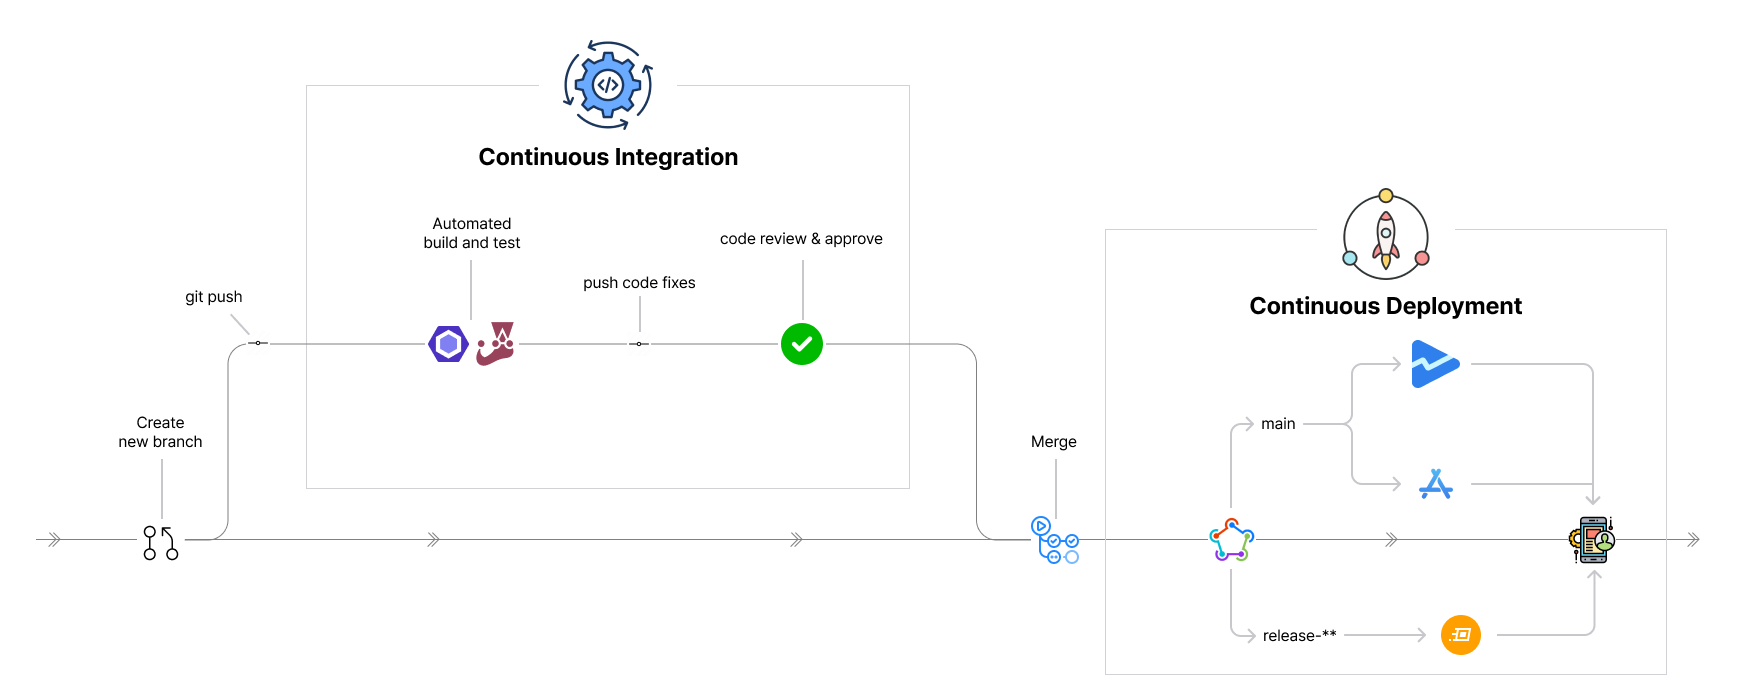
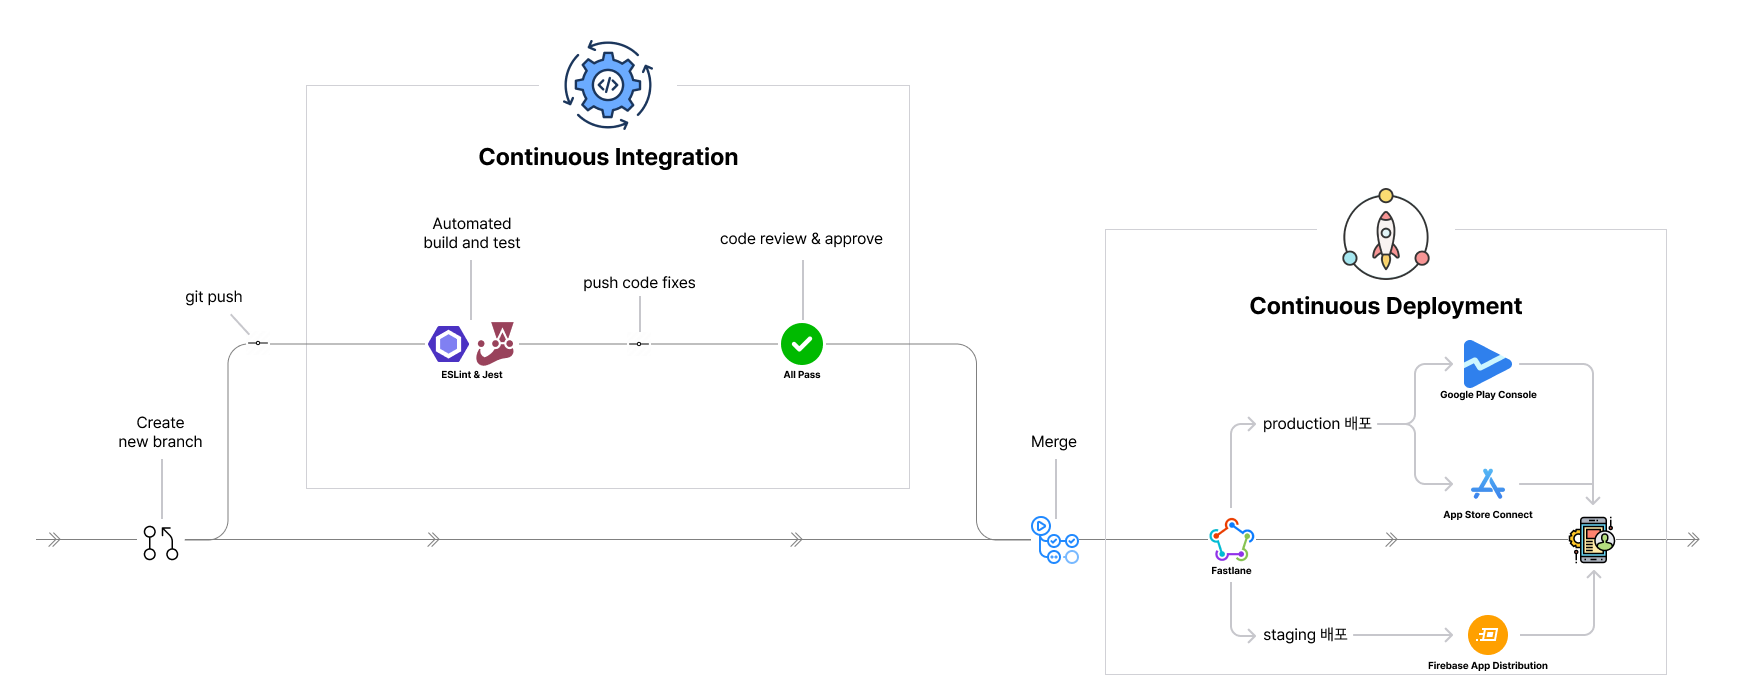
앱 내용 수정

diff --git a/constants/app.ts b/constants/app.ts
@@ -6,22 +6,23 @@ const appDetail = [
       { src: '/app/token-refresh-after.png', caption: '[After 토큰 재발급 흐름]' },
     ],
     problem:
-      '토큰 만료 시, 요청 중인 여러 API 요청이 동시에 실패(401)하면서 로그아웃 문제가 발생함',
-    cause:
-      '각 요청이 개별적으로 Refresh Token을 사용해 재발급을 시도하고, 첫 번째 재발급 요청만 성공하며 나머지 요청은 RTK 만료로 인해 로그아웃 처리됨',
+      'ATK(Access Token) 만료 후 여러 API 요청이 동시에 401 오류를 받으며 로그아웃 문제가 발생함',
+    cause: [
+      '오류를 받은 요청들이 동시에 RTK(Refresh Token)으로 토큰 재발급을 시도하지만, 시스템은 RTR(Rotate Refresh Token) 기법을 적용하고 있어 토큰 재발급 시 RTK도 함께 갱신되며 이전 RTK는 즉시 만료됨',
+      '따라서 첫 번째 요청만 재발급에 성공하고, 이후 요청들은 만료된 RTK를 사용해 로그아웃 처리로 이어짐',
+    ],
     alternatives: [
-      { text: 'Queue 기반의 요청 재처리 로직 도입', selected: true },
-      { text: 'Access Token(ATK) 유효 시간 연장', selected: false },
+      { text: '재발급 중복 방지 + 요청 대기 큐 도입', selected: true },
+      { text: 'ATK 유효 시간 연장', selected: false },
       { text: 'ATK 만료 직전에 사전 재발급 시도', selected: false },
-      { text: '백그라운드 만료 감지 후 갱신', selected: false },
+      { text: '백그라운드에서 토큰 만료 감지 및 자동 갱신 처리', selected: false },
     ],
     solution: [
-      '다수의 요청이 동시에 401 오류를 받을 수 있는 환경에서 isRefreshing 플래그와 requestQueue를 이용한 구조를 도입하여, 토큰 재발급 중인 상태에서는 추가적인 재발급 요청을 차단하고 그 시점 이후 발생한 요청은 모두 큐에 저장한다. 재발급이 성공하면 큐에 저장된 요청을 다시 실행시켜 중복 요청을 방지하고, 사용자에게는 실패 없이 매끄러운 경험을 제공',
+      '동시에 401 오류가 발생할 수 있는 상황에 대비해, 토큰 재발급 중에는 이후 요청을 대기열에 저장하고, 재발급이 완료된 후 새 토큰으로 인증 정보를 갱신해 순차적으로 요청을 처리하는 방식으로 문제를 해결하였다.',
     ],
     insights: [
-      '큐 기반 처리로 불필요한 서버 부하를 줄이고, 안정적인 사용자 경험을 제공할 수 있었다.',
-      '하지만 첫 번째 재발급 요청이 완료되기까지 대기 중인 요청은 초기 응답 지연이 발생할 수 있는데, 특히 네트워크가 불안정한 상황에서는 재발급 지연이 더 심해져 응답 지연이 가시화될 수 있다.',
-      '향후에는 백그라운드에서 토큰 만료를 감지해 갱신하는 전략을 병행하는 것이 효과적일 것같다.',
+      '요청 대기 큐를 통해 안정적인 사용자 경험을 제공할 수 있었고, 불필요한 서버 부하를 줄일 수 있었다.',
+      '다만, 재발급이 완료되기 전까지 요청이 대기하게 되므로 초기 응답 지연이 발생할 수 있고, 특히 네트워크가 불안정한 환경에서는 이 지연이 체감될 수 있다. 이 점을 보완하기 위해, 백그라운드에서 토큰 만료를 감지하고, 자동으로 갱신하는 전략을 병행한다면 사용자 경험을 더욱 매끄럽게 만들 수 있을 것으로 예상된다.',
     ],
     references: [],
   },
@@ -37,24 +38,27 @@ const appDetail = [
         caption: '[After 스플래시 화면 흐름]',
       },
     ],
-    problem: '스플래시 화면에서 인증 오류 발생 시 사용자가 자동으로 로그아웃되는 현상이 발생함',
-    cause:
-      '클라이언트의 네트워크 장애나 서버 오류 상황에 대한 정교한 에러 핸들링이 부족하여, 일시적인 문제에도 토큰이 제거되어 로그아웃 처리됨',
+    problem:
+      '앱 실행 후 스플래시 화면에서 인증 관련 API 호출 중 네트워크 에러가 발생하면, 실제 인증 실패가 아님에도 불구하고 사용자가 자동 로그아웃되는 현상이 발생함',
+    cause: [
+      '클라이언트에서 인증 오류(예: 401, 403)와 일시적인 네트워크 에러(예: 500, 타임아웃 등)에 대한 에러 핸들링이 명확히 구분되지 않아, 모든 오류 상황에서 토큰을 제거하고 로그인 페이지로 이동시키는 로직이 실행됨',
+    ],
     alternatives: [
       { text: '점진적 Retry → 이후 네트워크 상태 재확인 흐름 적용', selected: true },
       { text: 'API 요청 전 네트워크 상태 사전 확인', selected: false },
       { text: 'Queue를 활용한 요청 재시도(Retry) 구조 도입', selected: false },
     ],
     solution: [
-      '네트워크 장애나 서버 오류로 인한 실패에 대해서는 인증 토큰을 제거하지 않도록 에러 핸들링 로직을 개선',
-      '네트워크 불안정이 감지된 경우에는 재시도 없이 즉시 네트워크 장애 안내 페이지로 전환하여 불필요한 요청 감소',
-      '일시적인 서버 오류(예: 블루/그린 배포 중 발생하는 5xx 오류)를 고려해, Exponential Backoff Retry 전략(1초 → 2초 → 4초, 최대 3회) 을 적용하여 사용자 요청의 안정성을 확보함',
+      '네트워크 장애나 서버 오류(5xx) 발생 시, 인증 토큰을 제거하지 않도록 에러 핸들링 로직 개선',
+      '네트워크 연결이 불안정한 경우, 재시도 없이 즉시 네트워크 장애 안내 페이지로 전환하여 인증 정보 유지 및 불필요한 요청 감소',
+      '일시적인 서버 오류(예: 블루/그린 배포 중 발생하는 5xx 오류)를 고려해, Exponential Backoff Retry 전략(1초 → 2초 → 4초, 최대 3회)을 적용하여 사용자 요청의 안정성을 확보함',
     ],
     insights: [
       '프로세스 개선 및 정교한 에러 핸들링을 통해 불필요한 로그아웃 문제를 방지하고, 사용자 세션 유지의 안정성을 높일 수 있었다.',
       '모바일 환경처럼 네트워크가 불안정한 상황에서 앱이 사용자를 강제로 로그아웃시키는 경험은 신뢰도에 큰 영향을 줄 수 있기 때문에, 토큰 제거 조건을 정교하게 설계한 점이 주요한 개선 포인트였다.',
-      '또한 Exponential Backoff Retry 적용으로 서버 오류에 대해 과도한 요청을 방지하면서도 회복 가능성을 고려한 요청 흐름을 설계할 수 있었으며, 이는 서버 부하 감소에도 기여했다.',
-      '마지막으로 RTK 만료로 로그아웃된 사용자에게는 이전 로그인 수단을 안내하는 UI를 추가하여, 재로그인 과정을 빠르게 유도하고, 이탈을 줄이고자하였다.',
+      'Exponential Backoff Retry 전략을 도입함으로써, 회복 가능성을 고려한 요청 흐름을 구성하고 불필요한 반복 요청을 줄여 서버 부하 감소에도 기여했다.',
+      'RTK 만료로 로그아웃된 사용자에게는 이전 로그인 수단을 바로 안내하는 UI를 추가하여 재로그인 과정의 이탈률도 줄임',
+      'Jest + React Native Testing Library를 활용해 API 요청, 네트워크 예외 상황 등을 모킹하여 다양한 시나리오에 대해 의도한 대로 동작하는지 검증하였지만, MSW(Mock Service Worker) 등 더 실제에 가까운 HTTP 모킹 도구를 사용했다면 정교한 통합 테스트 환경 구축도 가능했을 것이다.',
     ],
     references: [
       {
@@ -79,20 +83,21 @@ const appDetail = [
         caption: '[딥링크 클릭 시 로그인되지 않은 사용자의 화면 이동]',
       },
     ],
-    problem: '딥링크 클릭 시 로그인 상태에 따라 올바른 화면으로 이동하지 못하는 문제가 발생함',
-    cause:
+    problem: '딥링크 클릭 시 로그인 상태에 따라 목적지로 이동하지 못하는 문제가 발생함',
+    cause: [
       '로그인 여부를 고려한 분기 로직 없이 딥링크를 처리해, 로그인 전 상태에서는 의도한 목적지로의 이동이 보장되지 않았음',
+    ],
     alternatives: [
       { text: 'Context를 활용한 딥링크 상태 보존', selected: true },
       { text: '로그인 여부를 검증하지 않고 목적지로 리디렉션', selected: false },
     ],
     solution: [
-      '로그인을 필수로 요구하는 서비스 특성상, 비로그인 상태에서 딥링크로 접근 시 목적지로 바로 이동할 수 없는 문제가 존재하여, 딥링크로 들어온 경로를 전역 상태(Context)에 저장하고 로그인 완료 후 해당 경로로 리디렉션하는 방식을 도입함',
+      '로그인을 필수로 요구하는 서비스 특성상, 비로그인 상태에서 딥링크로 접근 시 목적지로 바로 이동할 수 없는 문제가 존재하여, 딥링크로 접속 시 경로를 전역 상태(Context)에 저장하고 로그인 완료 후 해당 경로로 리디렉션하는 방식을 도입함',
     ],
     insights: [
       '전역 상태를 활용한 경로 저장 및 리디렉션 방식은 로그인 후에도 사용자가 딥링크 목적지로 자연스럽게 이동할 수 있어 진입 흐름의 일관성이 확보되었다.',
-      '마케팅 링크, 공유 링크 등 다양한 유입 경로에서도 사용자의 기대와 실제 앱 동작 간의 간극을 줄이는 데 기여하여, 서비스 접근성과 UX 측면에서 긍정적인 효과를 얻을 수 있었다.',
-      '다만, 로그인하지 않은 사용자는 딥링크 내용을 즉시 확인하기 어려운 한계가 있으며, 이를 보완하기 위해 딥링크 클릭 시 웹 링크로 유도하여 로그인 절차 없이 내용을 확인할 수 있도록 하는 방식을 향후 적용하는 것이 효과적일 것이다.',
+      '마케팅 링크, 공유 링크 등 다양한 외부 유입 경로에서 사용자의 기대와 실제 앱 동작 간의 간극을 줄이는 데 기여했으며, 결과적으로 서비스 접근성과 UX 향상에 긍정적인 영향을 주었다.',
+      '다만, 로그인하지 않은 사용자는 딥링크 내용을 즉시 확인하기 어려운 한계가 있으며, 이를 보완하기 위해 딥링크 클릭 시 앱이 설치되어 있지 않다면 웹 링크로 유도하여 내용을 즉시 확인할 수 있도록 하는 방식을 적용하는 것이 효과적일 것이다.',
     ],
     references: [],
   },
@@ -104,10 +109,12 @@ const appDetail = [
         caption: '[인앱 업데이트 프로세스]',
       },
     ],
-    problem:
+    problem: [
       '앱 스토어 심사로 인해 배포 시점이 최대 1~2일 지연되어, 긴급 수정이 즉시 이루어지지 않음',
-    cause:
-      '업데이트를 앱 심사 및 배포 완료 이후에만 적용할 수 있는 구조로 운영되어, 유연한 대응이 불가능했음',
+    ],
+    cause: [
+      '업데이트를 앱 심사 완료 이후에만 적용할 수 있는 구조로 운영되어, 유연한 대응이 불가능했음',
+    ],
     alternatives: [
       {
         text: '앱 마켓 심사를 거치지 않고도 업데이트할 수 있는 인앱 업데이트 도입',
@@ -119,14 +126,12 @@ const appDetail = [
       },
     ],
     solution: [
-      '인엡 업데이트를 도입하여 앱 스토어 설치를 거치지 않고 앱 내부에서 변경된 코드와 리소스를 빠르게 반영할 수 있도록 개선',
-      '긴급한 이슈 수정이나 마케팅 배너, 이벤트와 같은 변경 사항은 앱 심사 없이 평균 3분 이내로 배포 가능하도록 구조화함',
+      '인앱 업데이트를 도입하여 앱 스토어 설치를 거치지 않고 앱 내부에서 변경된 코드와 리소스를 평균 3분 이내로 빠르게 배포 가능하도록 개선',
     ],
     insights: [
       '인앱 업데이트 도입을 통해 앱 심사를 거치지 않고도 빠르게 변경 사항을 반영할 수 있어, 긴급 대응 및 운영 유연성이 크게 향상되었다.',
-      '그러나 실제 운영 과정에서는 네이티브 변경이 포함된 업데이트의 경우, 여전히 앱스토어 배포가 필요하기 때문에 인앱 업데이트 기능이 무용지물이 되는 경우도 존재한다.',
-      '특히 네이티브 변경이 단순한 버전 증가인지, 기능적으로 영향이 있는 변경인지를 정확히 구분하기 어렵다는 점도 운영 상의 리스크로 작용했다.',
-      '또한 앱스토어에서는 점진적 배포(Gradual Rollout)가 제한적이기 때문에, 장애 발생 시 조기 차단이나 롤백이 어렵다. 이에 따라 사전 대응을 위한 테스트 코드 강화 및 배포 전 시나리오 점검 절차 보완이 필요하다고 판단된다.',
+      '그러나 실제 운영 과정에서는 네이티브 변경이 포함된 업데이트의 경우, 여전히 앱스토어 배포가 필요하기 때문에 인앱 업데이트 기능이 무용지물이 되는 경우도 존재한다. 특히, 네이티브 변경이 단순한 버전 증가인지, 기능적으로 영향이 있는 변경인지를 정확히 구분하기 어렵다는 점도 운영 상의 리스크로 작용했다.',
+      '또한 인앱 업데이트에 대한 점진적 배포(Gradual Rollout)가 제한적이기 때문에, 장애 발생 시 조기 차단이나 롤백이 어렵다. 이에 따라 사전 대응을 위한 테스트 코드 강화 및 배포 전 시나리오 점검 절차 보완이 필요하다고 판단된다.',
     ],
     references: [
       {
@@ -151,20 +156,16 @@ const appDetail = [
         caption: '[CI/CD 자동화 배포 파이프라인]',
       },
     ],
-    problem:
+    problem: [
       'Android와 iOS 앱을 각각 수동으로 빌드하고 업로드해야 해 배포 과정에 반복적인 수작업이 발생하고, 작업 효율성이 저하됨',
-    cause:
-      '자동화된 CI/CD 파이프라인이 구축되어 있지 않고, 배포가 브랜치 전략이나 워크플로우와 연계되지 않아 매번 수동으로 처리해야 하는 구조로 운영되었음',
-    alternatives: [
-      { text: 'Github Actions를 활용한 자동화 배포 파이프라인 구축', selected: true },
-      {
-        text: '브랜치별로 다른 배포 전략(Fastlane, 환경 분리 등)을 설정해 목적에 맞는 배포 흐름 구성',
-        selected: false,
-      },
     ],
+    cause: [
+      '자동화된 CI/CD 파이프라인이 구축되어 있지 않고, 배포가 브랜치 전략이나 워크플로우와 연계되지 않아 매번 수동으로 처리해야 하는 구조로 운영되었음',
+    ],
+    alternatives: [{ text: 'Github Actions를 활용한 자동화 배포 파이프라인 구축', selected: true }],
     solution: [
       'Github Actions를 활용하여 CI/CD 자동화 배포 파이프라인을 구축하고, 브랜치 전략에 따라 서로 다른 배포 경로를 적용함.',
-      'main 브랜치로 PR이 머지되는 경우에는 앱 마켓(Play Store / App Store)에 자동 업로드되도록 설정하고, release 브랜치에 대해서는 Firebase App Distribution을 통해 팀원들에게 배포가 자동으로 이루어지도록 구성하여, 반복적인 수작업 없이 안정적인 배포 흐름과 작업 효율성을 확보함.',
+      'production 배포 PR이 머지되는 경우에는 앱 마켓(Play Store / App Store)에 자동 업로드되도록 설정하고, staging 배포에 대해서는 Firebase App Distribution을 통해 팀원들에게 배포가 자동으로 이루어지도록 구성하여, 반복적인 수작업 없이 안정적인 배포 흐름과 작업 효율성을 확보함.',
     ],
     insights: [
       'CI/CD 자동화 도입으로 수동 배포 과정에서 발생하던 반복 작업과 인적 오류를 크게 줄일 수 있었고, 배포 속도와 안정성이 향상되었다.',

diff --git a/components/ProjectDetailCard.tsx b/components/ProjectDetailCard.tsx
@@ -21,10 +21,16 @@ export default function ProjectDetailCard({
         <ProjectDetailImages images={images} />
         <div className="flex flex-col gap-6">
           <ProjectDetailSectionBlock title="문제">
-            <p className="text-sm text-gray-700 md:text-base">{problem}</p>
+            <ul className="dot-list">
+              <li>{problem}</li>
+            </ul>
           </ProjectDetailSectionBlock>
           <ProjectDetailSectionBlock title="원인">
-            <p className="text-sm text-gray-700 md:text-base">{cause}</p>
+            <ul className="dot-list">
+              {cause.map((c, i) => (
+                <li key={i}>{c}</li>
+              ))}
+            </ul>
           </ProjectDetailSectionBlock>
           <ProjectDetailSectionBlock title="대안">
             <ul className="dot-list">

diff --git a/types/project.ts b/types/project.ts
@@ -10,7 +10,7 @@ export interface ProjectDetail {
   title: string;
   images: Image[];
   problem: string;
-  cause: string;
+  cause: string[];
   alternatives: Alternative[];
   solution: string[];
   insights: string[];
